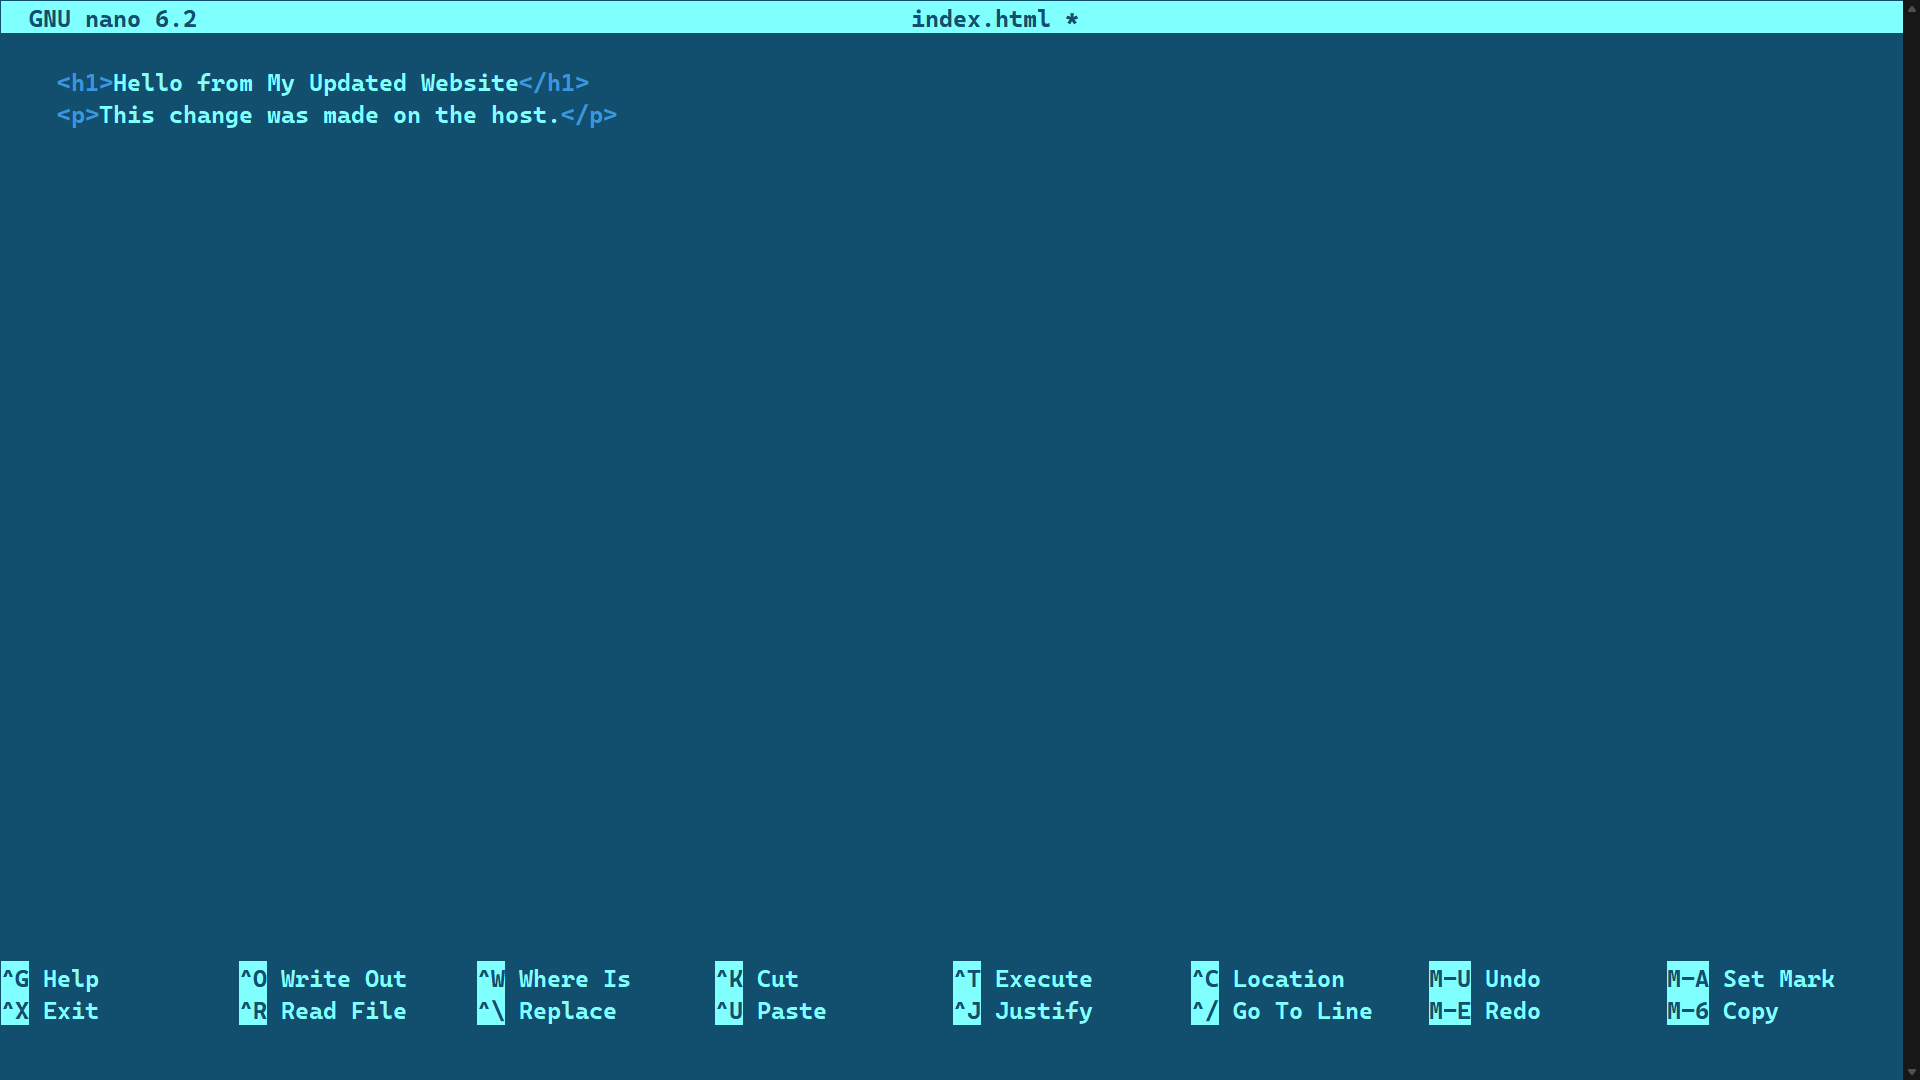
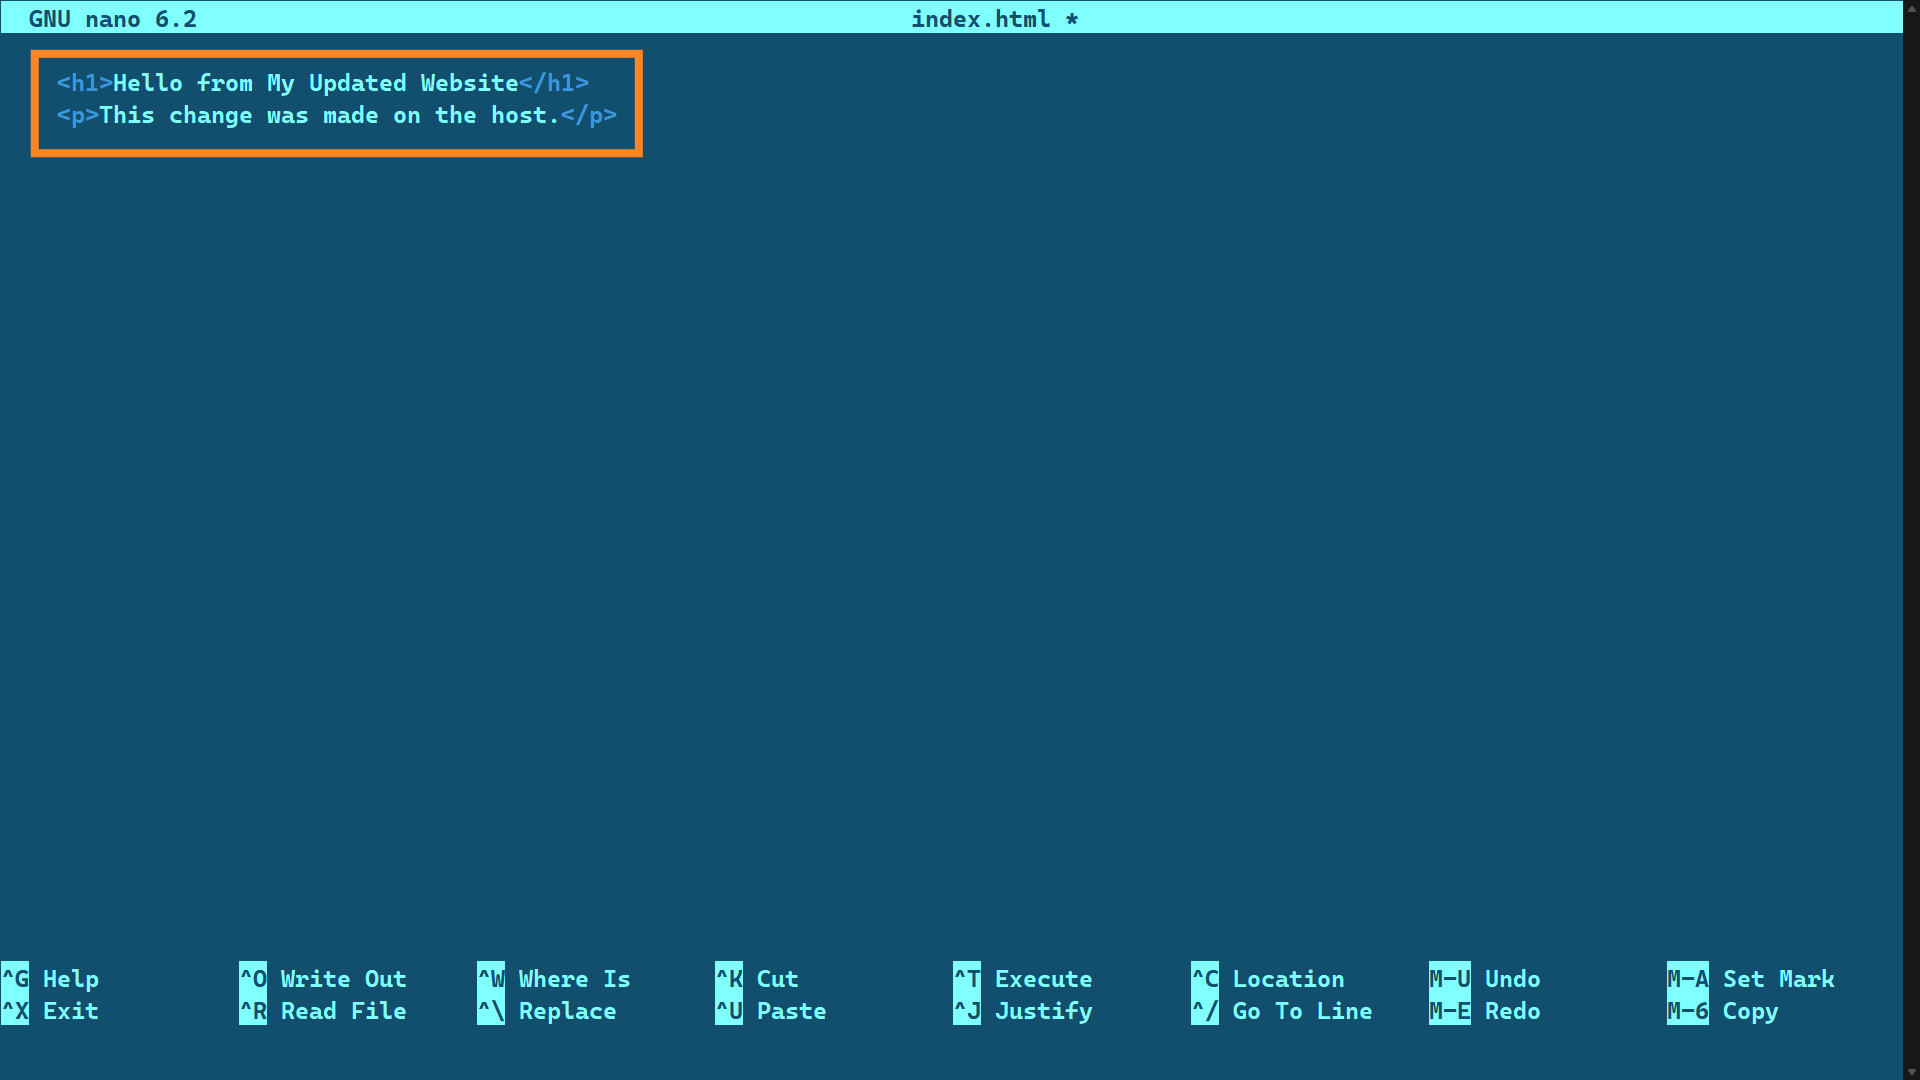
Added files

Changed region(s): [[0.0, 0.0306, 0.3438, 0.1528]]

diff --git a/60-demo-bind-mount-on-apache-container.md b/60-demo-bind-mount-on-apache-container.md
@@ -105,7 +105,7 @@ Check the updated file on the host:
 
 ![alt text](<Screenshot 2026-09-17 195014(1).png>)
 
-![alt text](<Screenshot (792)-1.png>)
+![alt text](<Screenshot (792)-2.png>)
 
 
 ---
